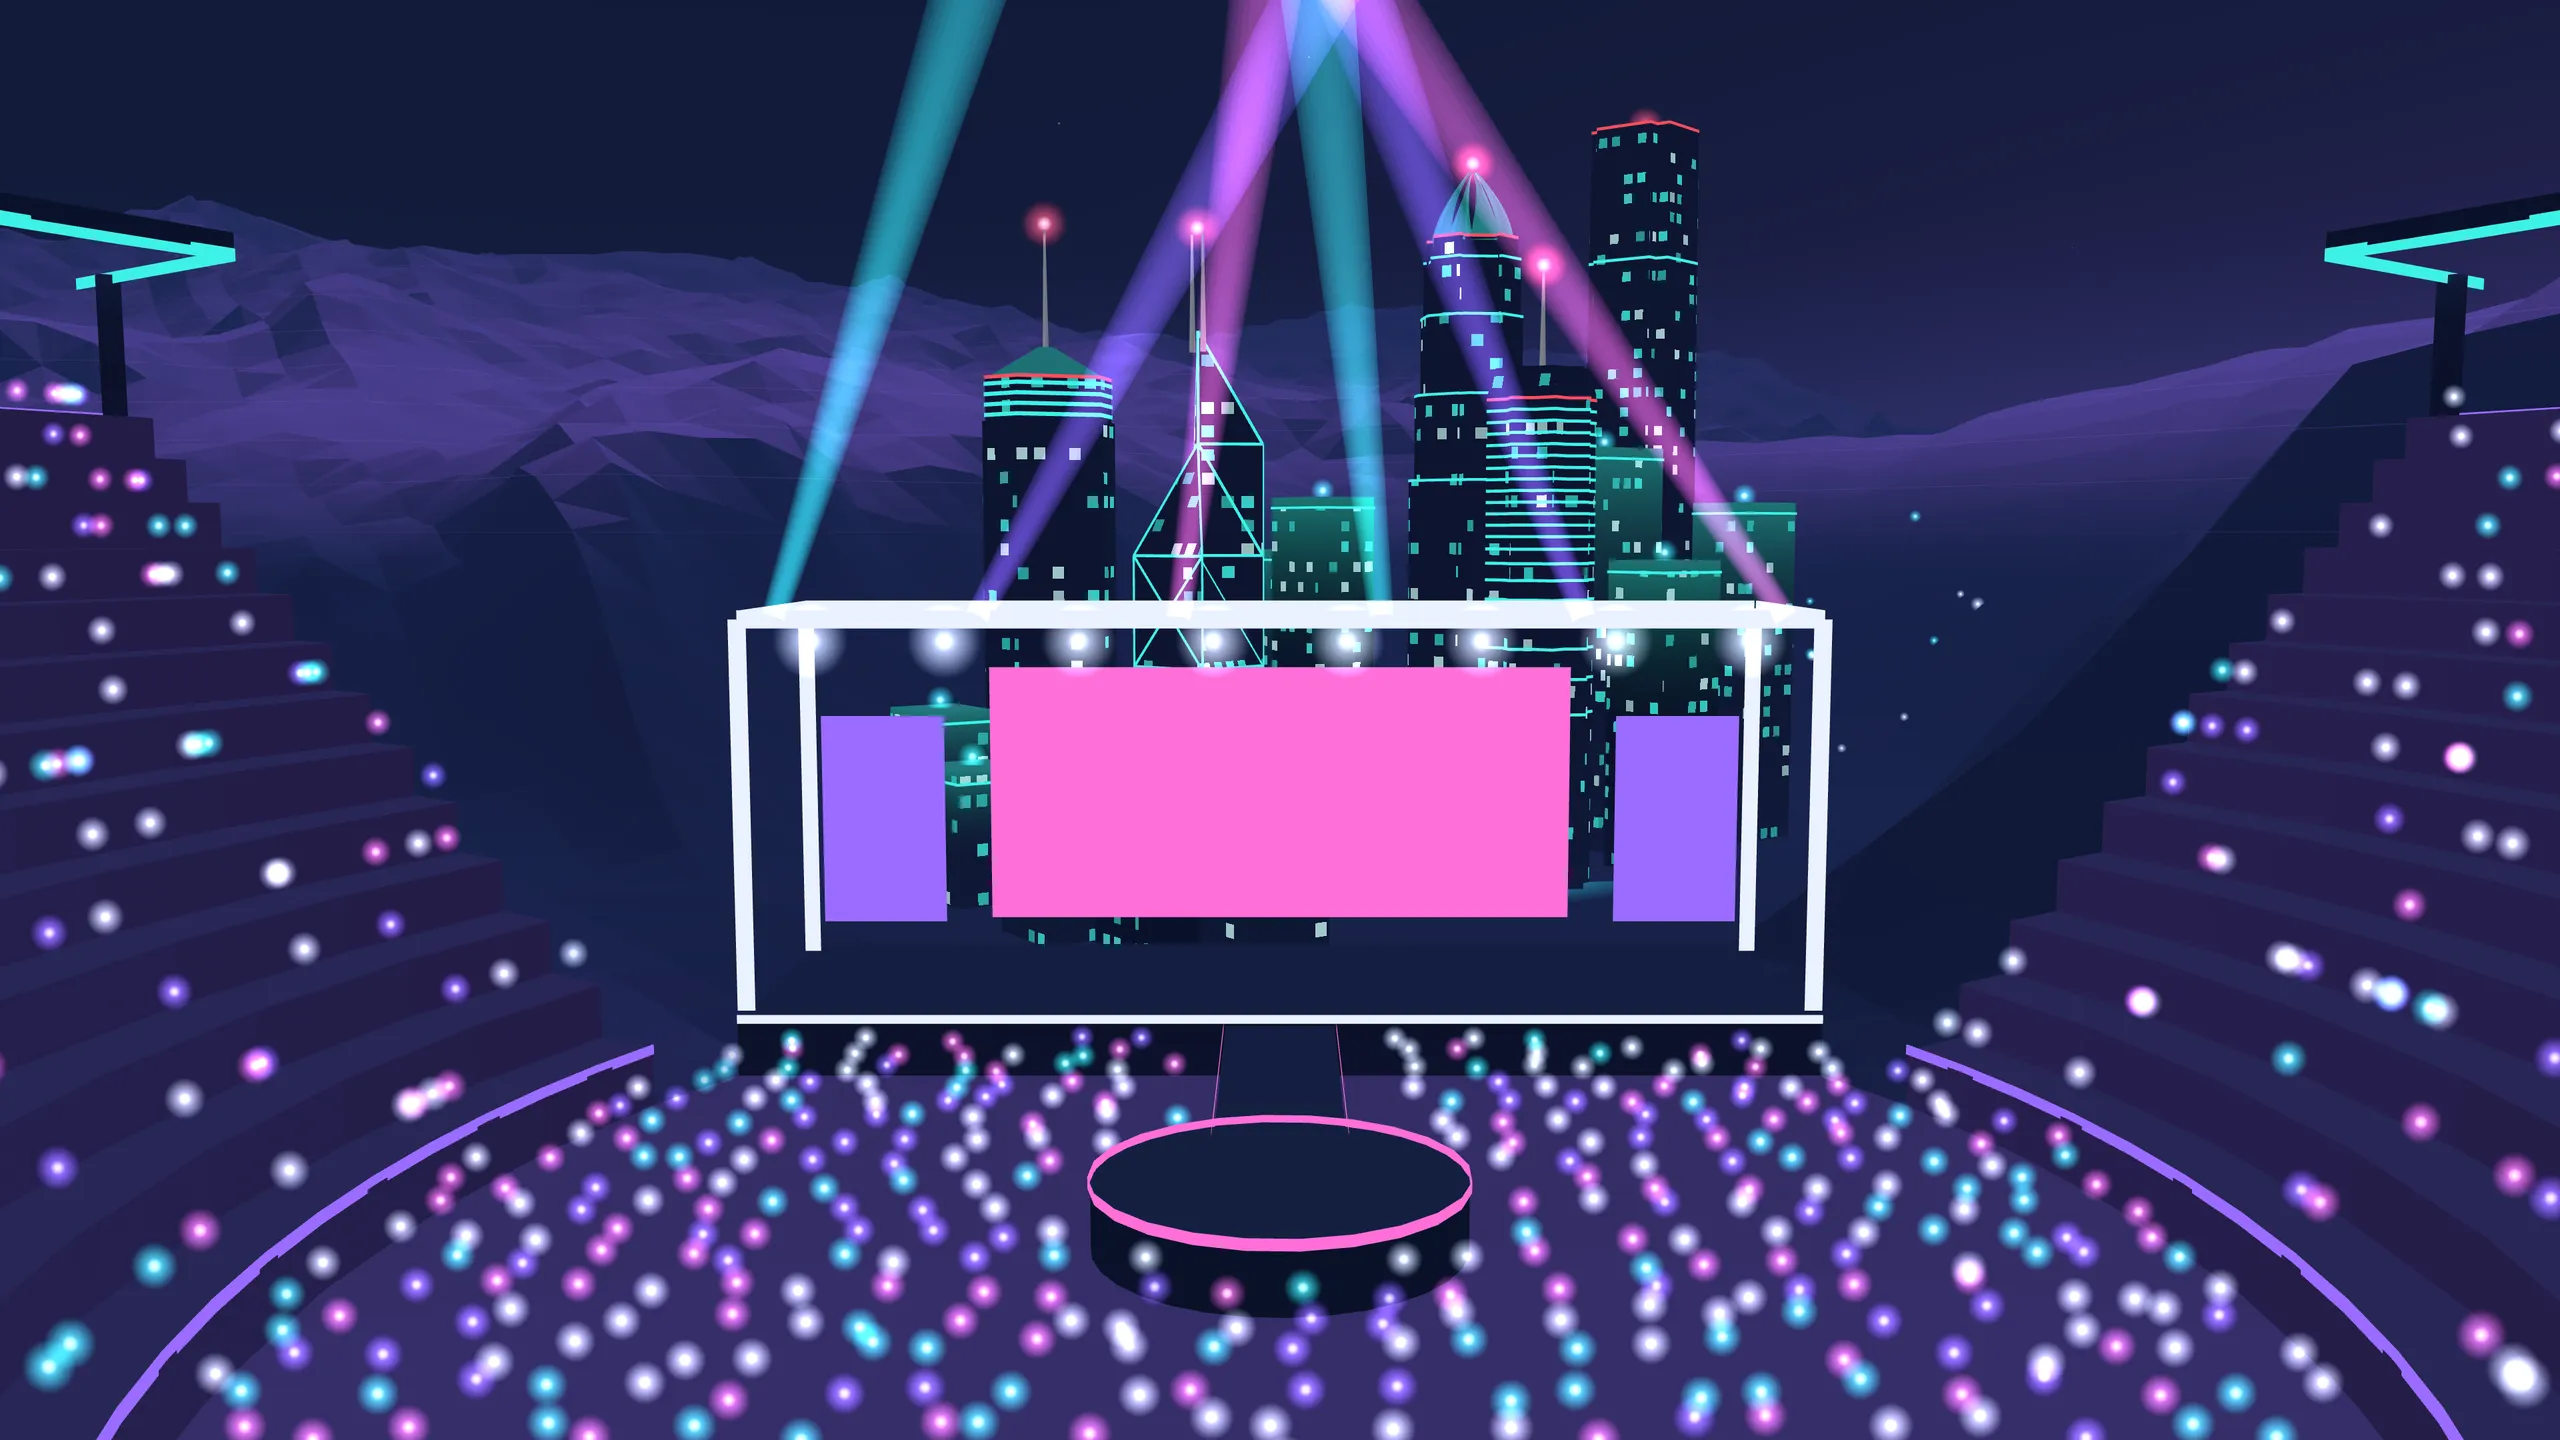
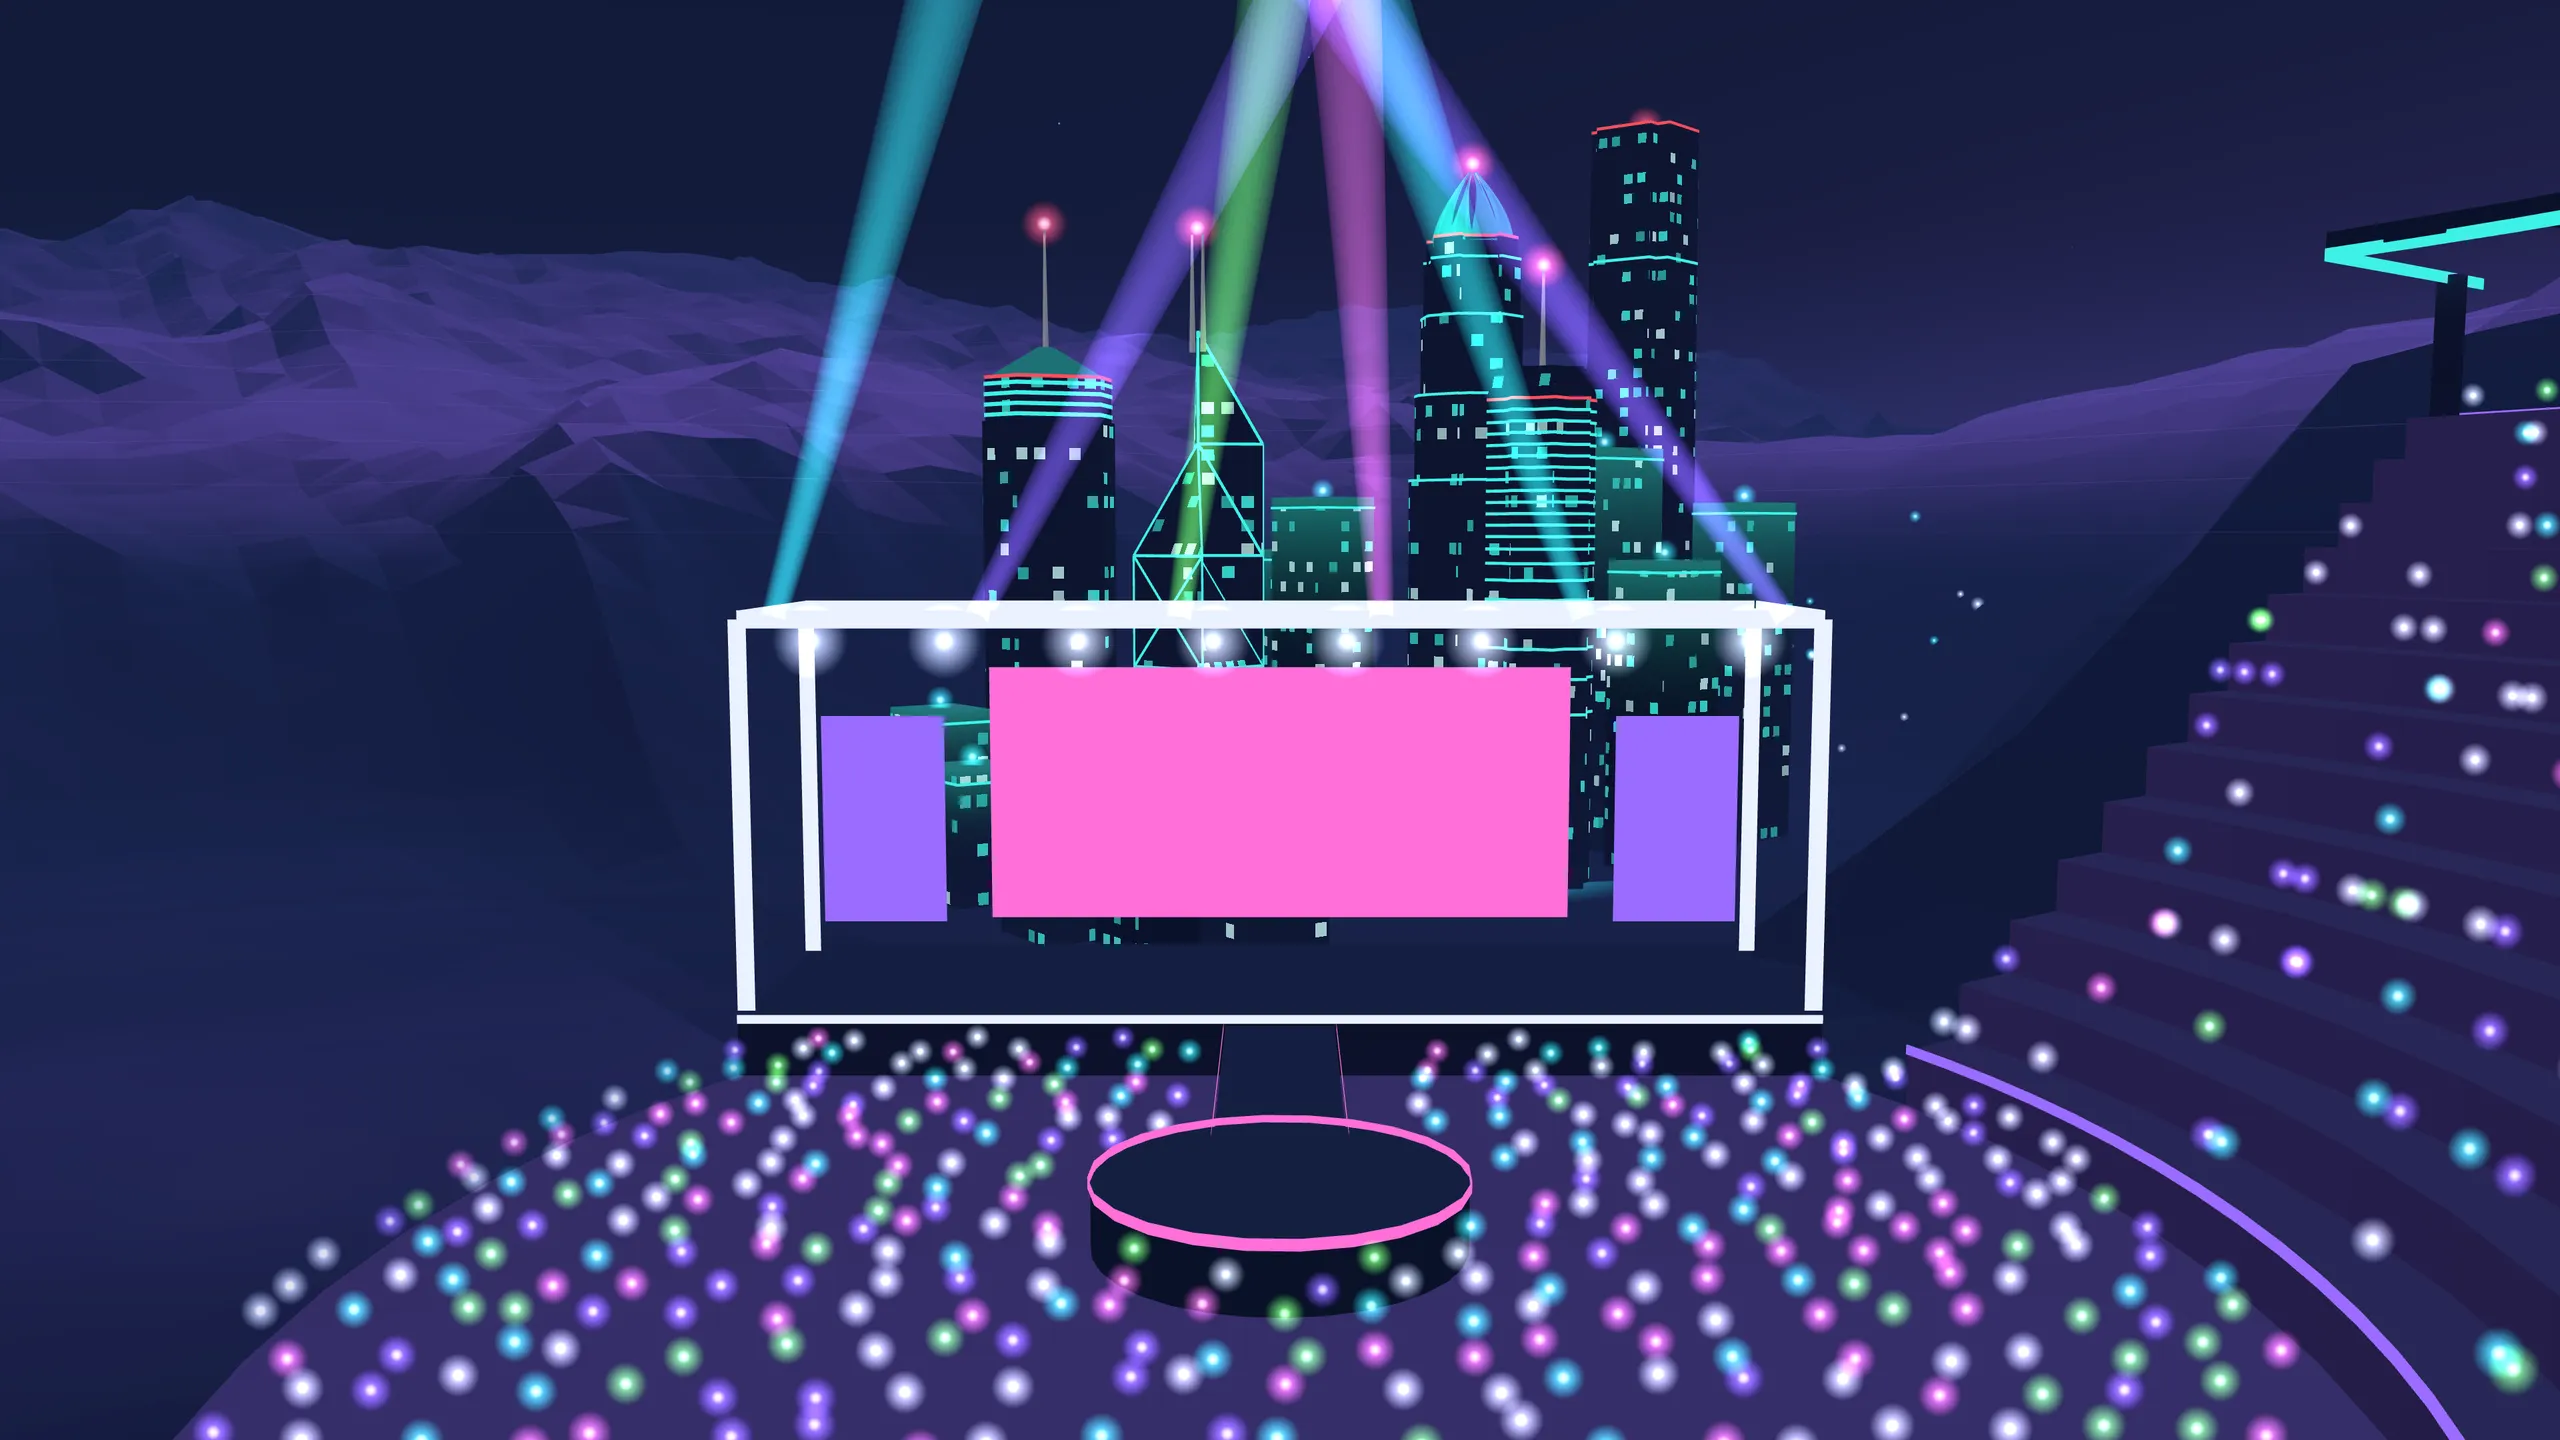
Open the Arena's side toward the route; a neon green for the Encore (#99)
The tiers start 60 degrees later on the Arena's left (from inside, facing
the stage), the side over the shore, so home's route sees in to its
stands and stage. Neon green #7CFF63 joins the palette for the Encore's
lightsticks, beams and tickets. The Arena, Diamond and court stills are
re-shot to match.

Claude-Session: https://claude.ai/code/session_01NHJwqKPSDDUpWgbarLXvxw

diff --git a/src/components/world/arena.ts b/src/components/world/arena.ts
@@ -24,13 +24,17 @@ import { arenaFrame, ARENA_SITE, valleyHeight } from "./terrain";
  * its middle, stretched down the axis as far as the footprint is (./terrain);
  * `tiers` steps each `rise` high, filling the footprint out to its edge
  * (the last unit a parapet); the open end's `gap`, in radians, centred on
- * the stage; and `runs` straight runs round each tier.
+ * the stage, opened `open` further round its left side (seen from inside,
+ * facing the stage: the side over the shore, toward home's route), so the
+ * route sees in to the floor and the stage; and `runs` straight runs round
+ * each tier.
  */
 export const ARENA = {
   floor: 19,
   tiers: 13,
   rise: 1.45,
   gap: (2 * Math.PI) / 3,
+  open: Math.PI / 3,
   runs: 24,
 } as const;
 
@@ -42,7 +46,7 @@ const TIER = (ARENA_SITE.wide - 1 - ARENA.floor) / ARENA.tiers;
 
 /** Where the tiers run: from `from` round the closed curve to `to` (0 is the curve's end of the axis). */
 export const TIERS_SPAN = {
-  from: Math.PI + ARENA.gap / 2,
+  from: Math.PI + ARENA.gap / 2 + ARENA.open,
   to: 3 * Math.PI - ARENA.gap / 2,
 } as const;
 
@@ -93,7 +97,14 @@ const BRACES = {
 const SEATS = { spacing: 2.6, size: 0.9 } as const;
 
 /** The colours of the crowd's lightsticks. */
-const STICKS = [palette.ink, palette.ink, palette.violet, palette.magenta, palette.cyan];
+const STICKS = [
+  palette.ink,
+  palette.ink,
+  palette.violet,
+  palette.magenta,
+  palette.cyan,
+  palette.green,
+];
 
 /**
  * The Encore's crowd on the floor: a lightstick about every `spacing` each
@@ -476,7 +487,7 @@ export function layoutArena() {
   }
 
   // The Encore's beams, from the truss's front frame into the night.
-  const beamColors = [cyan, violet, magenta];
+  const beamColors = [cyan, violet, palette.green, magenta];
   const beams: Beam[] = Array.from({ length: BEAMS.count }, (_, i) => {
     const u = i / (BEAMS.count - 1);
     const [ax, az] = toWorld(-half + 1 + u * (s.width - 2), frames[0]);

diff --git a/src/components/world/arena.test.ts b/src/components/world/arena.test.ts
@@ -221,6 +221,25 @@ describe("the Arena in the world", () => {
     expect(cos).toBeCloseTo(1);
   });
 
+  it("opens its side toward home's route, from the stage round to that side's middle, so the route sees in", () => {
+    // Home's route passes on its left (from inside, facing the stage): -lx.
+    for (let s = 4; s <= ROUTE_STOPS - 1; s += 0.25) {
+      const p = nominalRoute(1.6).poseAt(s).position;
+      expect(framed(p.x, p.z).lx, `at stop ${s}`).toBeLessThan(0);
+    }
+    // That side open from the stage to its middle; the other side's tiers
+    // run on to the stage's gap, as before.
+    const side = (3 * Math.PI) / 2;
+    for (let a = Math.PI; a <= side; a += 0.05) {
+      expect(inTiers(a), `at ${a.toFixed(2)}`).toBe(false);
+    }
+    for (let a = side; a >= Math.PI + ARENA.gap / 2 + 0.01; a -= 0.05) {
+      expect(inTiers(4 * Math.PI - a), `at ${(4 * Math.PI - a).toFixed(2)}`).toBe(true);
+    }
+    // Its back, cut into the hillside, still closes the curve.
+    expect(inTiers(2 * Math.PI)).toBe(true);
+  });
+
   it("sits in its seat: the ground under its floor and tiers cut below the underside", () => {
     for (let r = 0; r <= ARENA_SITE.wide; r += 2) {
       for (let a = 0; a < 2 * Math.PI; a += 0.1) {

diff --git a/src/content/site.ts b/src/content/site.ts
@@ -763,6 +763,7 @@ const world = {
   cyan: "var(--color-cyan)",
   violet: "var(--color-violet)",
   magenta: "var(--color-magenta)",
+  green: "var(--color-green)",
 } as const;
 
 export const encore = {
@@ -777,12 +778,12 @@ export const encore = {
     { group: "Stray Kids", year: 2025, colors: [world.violet] },
     { group: "BLACKPINK", year: 2025, colors: ["#F7A7BB"] },
     { group: "BABYMONSTER", year: 2025, colors: ["#E8132E"] },
-    { group: "aespa", year: 2026, colors: [world.violet] },
+    { group: "aespa", year: 2026, colors: [world.green] },
     { group: "EVERGLOW", year: 2026, colors: [world.magenta] },
     { group: "IVE", year: 2026, colors: [world.cyan] },
     { group: "TWICE", year: 2026, colors: ["#FCC89B", "#FF5FA2"] },
     { group: "BTS", year: 2026, colors: ["#A15EE6"] },
-    { group: "XG", year: 2026, colors: [world.magenta] },
+    { group: "XG", year: 2026, colors: [world.green] },
   ],
 } as const satisfies {
   id: string;

diff --git a/src/components/world/palette.ts b/src/components/world/palette.ts
@@ -8,6 +8,8 @@ export const palette = {
   cyan: new Color("#3df2e6"),
   violet: new Color("#9b6cff"),
   magenta: new Color("#ff6fd8"),
+  /** Neon green: the Encore's show (its lightsticks and beams) and tickets. */
+  green: new Color("#7cff63"),
   /** Hong Kong's own: its landmarks' tips and their streaks in Victoria Harbour. */
   neonRed: new Color("#ff4d5e"),
   ink: new Color("#eaf2ff"),

diff --git a/src/app/globals.css b/src/app/globals.css
@@ -10,6 +10,7 @@
   --color-cyan: #3df2e6;
   --color-violet: #9b6cff;
   --color-magenta: #ff6fd8; /* data motes and the Encore's tickets only */
+  --color-green: #7cff63; /* the Encore's show and tickets only */
   --color-neon-red: #ff4d5e; /* Hong Kong's, in the world only: never UI text */
   --color-ember: #ffb347; /* the primary action only */
   --color-ink: #eaf2ff; /* text */

diff --git a/docs/HANDOFF.md b/docs/HANDOFF.md
@@ -28,7 +28,7 @@ The source of truth for the site's scope, decisions and content-accuracy rules. 
 - **Contact:** a `mailto:` link to the Gmail address, LinkedIn (linkedin.com/in/adrian-luk) and GitHub (github.com/AdrianLuk). No email at the domain and no contact form. Adrian's photo stands beside the lead and channels (above them on a phone), cropped to head and shoulders and graded into the night palette on a holographic panel (decided 2026-10-08, issue #84); it is the site's only photograph, and appears nowhere else. The contact section ends with "How this site is built" (decided 2026-10-08): a lead line, at most five facts the public repo bears out, and a link to its source. Then the closing view (issue #83): the page's last screen, mostly clear of copy, where the camera reaches the scroll route's last stop, Hong Kong whole in its upper half and Victoria Harbour across its lower. Over the water, with no panel, stands the closing bookend, which stays the last word. Every page's footer links the source too. A fact goes there only if the repo shows it; change the copy when the build changes.
 - **Domain:** adrianluk.com.
 - **Visual direction:** a luminous night world, techy and cyberpunk-esque (light-structures and holographic panels on a night terrain; no flora required), with a cinematic fly-in that settles on the name. Avatar is the reference for a camera flying into a world, never the source: no Na'vi, no named Pandora places or creatures. The world is built procedurally in WebGL (Three.js), with no photographs or supplied imagery; the site's one photograph is Adrian's portrait in the contact section (see Contact). The full direction contract and motion plan live in the surface brief (`.impeccable/surfaces/src-app-page-tsx.md`).
-  - Palette: indigo sky #0B1026 to #121B3A, fog #1E2B5C, cyan #3DF2E6, violet #9B6CFF, spore pink #FF6FD8, neon red #FF4D5E for Hong Kong only (in the world, never UI text: its landmarks' tips and their streaks in Victoria Harbour), ember #FFB347 for the primary action only, text #EAF2FF. Type: Anybody (display, variable width) and Hanken Grotesk (body). It deliberately doesn't match Juice Bros.
+  - Palette: indigo sky #0B1026 to #121B3A, fog #1E2B5C, cyan #3DF2E6, violet #9B6CFF, spore pink #FF6FD8, neon green #7CFF63 for the Encore's show and tickets, neon red #FF4D5E for Hong Kong only (in the world, never UI text: its landmarks' tips and their streaks in Victoria Harbour), ember #FFB347 for the primary action only, text #EAF2FF. Type: Anybody (display, variable width) and Hanken Grotesk (body). It deliberately doesn't match Juice Bros.
   - The towers along the valley are a city: tall, wide, windowed buildings, each kept under the ridge behind it so the mountains crest above the general skyline (from the hero; past the fog's reach that rule lapses). The two gates stay slim light masts, the first past the harbour.
   - Each lit site is a landmark for its Highlight's Project, built from light, recognisable by its silhouette, and carrying the site's light where the scroll route frames it: Control D's shielded gate (a ring gate under a dome of hex cells that shimmers, the light its apex), Life House's hotel (a château, after the Royal York's shape but never named: a tower between two wings under steep copper roofs, a neon HOTEL sign and a covered drop-off, the light on its finial), Juice Bros' pickleball court (to scale, lit by low floodlights, the light a ball over the net, which alone rises over the ridge, where the hero looks straight down the valley) and BT Cup's open stadium bowl (the light in the cup of a hologram trophy that turns over the pitch). The trophy's turn and the shield's shimmer are the landmarks' only motion, and both hold still under reduced motion. The court gets one more when the camera stands at it for the Case study: a small ball rallying over the net (see "One world, and transits through it").
   - Hong Kong stands where the route ends, behind the Contact section (issue #83): the Island's skyline seen from Tsim Sha Tsui across Victoria Harbour, scaled like a postcard as Toronto is. Its landmarks are ICC (the tallest, at the back among the Island towers: being in the frame beats being true to the map), IFC 2's stepped crown, the Bank of China Tower's stacked prisms with its X-braced lattice in lines of light, Central Plaza's pyramid and mast, and The Center's ringed crown, with a few towers round them and Victoria Peak's dark ridge behind, sparsely lit. Its towers carry the world's cyan; neon red marks what's Hong Kong's own. It stands past the fog's reach from the hero, so it may rise over the ridge, but nothing, crowns and masts included, rises over the CN Tower. It is no page's Place.
